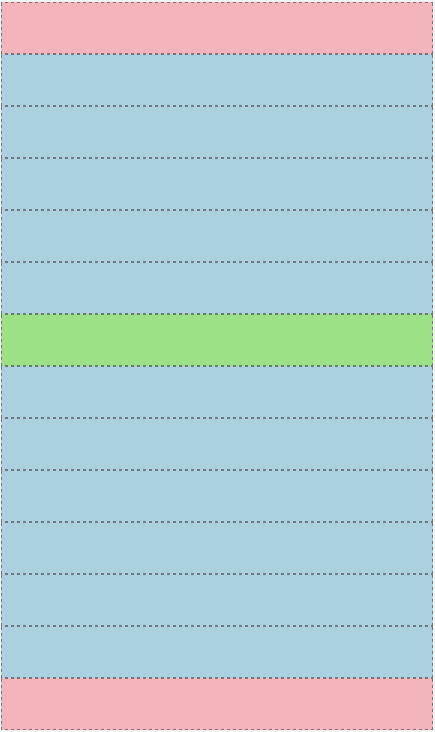
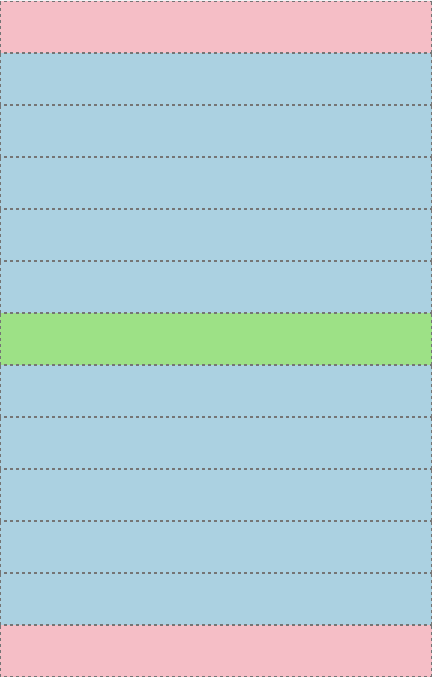
next add user movement

diff --git a/main.js b/main.js
@@ -31,64 +31,100 @@ document.addEventListener("DOMContentLoaded", function(event) {
    let botOptions = [1, 2, 3];
    let botOptionIMGS = [];
    let url = '';
-
+   let container = document.getElementById('container');
+   let width = 430;
+   // PLAYER CONTROLS
+   let u = +25;
+   let d = -25;
+   let l = -25;
+   let r = +25;
    // KEEP TRACK OF WINS/LOSSES
    let outcome = 'default';
    // CREATE PLAYER & BOTS
-   const character = document.getElementById('character');
+   const player = document.getElementById('player');
 
+   function collide() {
+      console.log('oh no!');
+      player.style.bottom = '0px';
+      player.style.left = '500px';
+      playerPosVert = 0;
+      playerPosHoriz = 500;
+      lives--;
+      console.log('lives left:', lives);
+      if (lives === 0) {
+         console.log(' out of lives!');
+         //  makeModalRestart();
+      }
+   }
+
+   function checkCollision(param1, param2) {
+      charLeft = parseInt((player.style.left).match(/[0-9]+/));
+      charRight = (parseInt((player.style.left).match(/[0-9]+/)) + player.offsetWidth);
+      charBottom = parseInt((player.style.bottom).match(/[0-9]+/));
+      charTop = (parseInt((player.style.bottom).match(/[0-9]+/)) + player.offsetHeight);;
+      let bots = document.getElementsByClassName('bot');
+      for (let x = 0; x < bots.length; x++) {
+         robotLeft = parseInt((bots[x].style.left).match(/[0-9]+/));
+         robotRight = (parseInt((bots[x].style.left).match(/[0-9]+/)) + bots[x].offsetWidth);
+         robotBottom = parseInt((bots[x].style.bottom).match(/[0-9]+/));
+         robotTop = (parseInt((bots[x].style.bottom).match(/[0-9]+/)) + bots[x].offsetHeight);
+
+         if ((((charBottom < robotTop) && (charBottom > robotBottom)) || ((charTop > robotBottom) && (charTop < robotTop)) || ((charTop === robotTop) && (charBottom === robotBottom))) && (((charLeft > robotLeft) && (charLeft < robotRight)) || ((charRight > robotLeft) && (charRight < robotRight)))) {
+            console.log('collided!');
+            collide();
+         }
+
+      }
+   }
 
 
    function createGame() {
-      // GET IMAGES
-      function setImages(arg1) {
-         var xhr = new XMLHttpRequest();
-         xhr.responseType = 'arraybuffer';
-         xhr.onload = function() {
-            var blb = new Blob([xhr.response], {
-               type: 'image/png'
-            });
-            url = window.URL.createObjectURL(blb);
-            botOptionIMGS[arg1] = `url(${url})`;
-         };
 
-         xhr.open('GET', 'http://galvanize-cors-proxy.herokuapp.com/https://robohash.org/gf');
-         xhr.send();
-      };
-      // + seed + "?set=set" + arg1
       // CREATE PLAYER
-      for (let x = 0; x < botOptions.length; x++) {
-         console.log(x);
-         setImages(x);
-      }
-      console.log(botOptionIMGS);
-      console.log(botOptionIMGS[0], '0th image');
-      character.style.backgroundImage = (botOptionIMGS[0]);
-      console.log(character.style.backgroundImage);
-      // console.log(myImage);
-      // character.style.backgroundImage = (myImage);
-
-
-
+      player.style.backgroundImage = `url(http://galvanize-cors-proxy.herokuapp.com/https://robohash.org/${seed}?set=set3)`;
       // CREATE BOTS
-      // for (let z = 0; z < botOptions.length; z++) {
-      //    setImages(bot, botOptions[z]);
-      // }
       let numRows = levels[level].length;
       for (let x = 0; x < numRows; x++) {
          let row = levels[level][x];
          let botsPerRow = row.botPicks.length;
+         let offset = parseInt((530 - (50 * botsPerRow)) / botsPerRow);
+         console.log(offset);
          for (let y = 0; y < botsPerRow; y++) {
             let bot = document.createElement('div');
+            let set = levels[level][x].botPicks[y];
             bot.className = 'bot';
+            if (x < 5) {
+               bot.style.bottom = ((x + 1) * 50) + 'px';
+            } else {
+               bot.style.bottom = ((x + 2) * 50) + 'px';
+            }
+            bot.style.backgroundImage = `url(http://galvanize-cors-proxy.herokuapp.com/https://robohash.org/${seed}?set=set${set})`;
+            container.append(bot);
+            let botOffset = (((offset) + 50) * y);
+            bot.style.left = botOffset + 'px';
+            let botPosition = botOffset;
 
+            function moveBot() {
+               botPosition = botPosition + row.velocity;
+               bot.style.left = botPosition + 'px';
+               if (Math.abs(botPosition) >= 480) {
+                  botPosition = -50;
+               }
+
+               if ((botPosition) < -50) {
+                  botPosition = 480;
+               }
+               requestAnimationFrame(moveBot);
+               checkCollision();
+            }
+            moveBot();
          }
       }
-
-
-
-      console.log(seed, 'seed at create game');
    }
+
+   //  document.onkeydown = checkKey;
+
+
 
 
    // SET UP MODAL
@@ -152,9 +188,9 @@ GET png request(s) -- seed
 
 define robots
 move robots - direction/speed
-define character
-set character controls
-move character
+define player
+set player controls
+move player
 check collision
 check win
 
@@ -169,11 +205,11 @@ win modal
 modal  <- modal(start/win/restart)
 robot vars - distance between, offset, speed
 
-// on load submit load icon, on make characters/robots, setup game (if lag)
+// on load submit load icon, on make players/robots, setup game (if lag)
 
 setup game (on http requests complete <- need #image types ahead of time)
   * do I need this in a function? just wait for load? *
-  make character
+  make player
   get level - sets robot variables
     make robots (image set, bottom offset, index, speed/direction, #monsters, distance between)
     ^ make distance between calc based on #monsters; need index?; try to call only once
@@ -187,7 +223,7 @@ define robots
     * set robot left & bottom offset
     set robot position to offset (space between * index of monster)
     append robot
-    set robot classname by index: robot1, robot2, etc (for looping through robots in collide check << probably unnecessary << just get all by class robot and apply in a loop?)
+    set robot classname by index: bot, robot2, etc (for looping through robots in collide check << probably unnecessary << just get all by class robot and apply in a loop?)
 
     declare move robot () << move out?!
       increment robot position
@@ -198,7 +234,7 @@ define robots
 
     move robot()
 
-define character (player)
+define player (player)
       make
       give id, class, background image (http GET url)
       * set position left & bottom
@@ -210,15 +246,15 @@ define character (player)
  global vars for u,d,l,r (move up to top)
 
  move player()
-  for each direction, move character position < change to object literal, run once? object: keycode, direction name, +/- #pixels to move
-  check goals for win // change to only runs on character pos = goal,  height < change to object literal
+  for each direction, move player position < change to object literal, run once? object: keycode, direction name, +/- #pixels to move
+  check goals for win // change to only runs on player pos = goal,  height < change to object literal
     ^ make this cleaner - margins between goals, clear win/loss < change 1 hop to be 1 whole box?
-      if goal, reset character position << break out into function, update goals
+      if goal, reset player position << break out into function, update goals
         if all goals, display win modal, update level
 
   collided
     alert user
-    reset character position (put a delay on this?, maybe combined with alerting user - toast?)
+    reset player position (put a delay on this?, maybe combined with alerting user - toast?)
     decrement lives
     if no more lives
       run restart modal
@@ -233,6 +269,18 @@ define character (player)
 
   GET requests currently at bottom, move up
 */
+
+//* BONUS: python firebase api from robohash template w/custom images < THURS
+// THURS
+// ts currently at bottom, move up
+//    *
+//    /
+//
+// //* BONUS: python firebase api from robohash template w/custom images < THURS
+// // THURS
+// ts currently at bottom, move up
+//    *
+//    /
 
 //* BONUS: python firebase api from robohash template w/custom images < THURS
 // THURS

diff --git a/mainOne.js b/mainOne.js
@@ -300,36 +300,10 @@ document.addEventListener("DOMContentLoaded", function(event) {
    }
 
    function checkCollision(param1, param2) {
-
-
       charLeft = parseInt((character.style.left).match(/[0-9]+/));
       charRight = (parseInt((character.style.left).match(/[0-9]+/)) + character.offsetWidth);
       charBottom = parseInt((character.style.bottom).match(/[0-9]+/));
       charTop = (parseInt((character.style.bottom).match(/[0-9]+/)) + character.offsetHeight);;
-
-
-      // if (charBottom >= 400) {
-      //    let drowning = true;
-      //    for (let p = 0; p < logs.length; p++) {
-      //
-      //       robotLeft = parseInt((logs[p].style.left).match(/[0-9]+/));
-      //       robotRight = (parseInt((logs[p].style.left).match(/[0-9]+/)) + logs[p].offsetWidth);
-      //       robotBottom = parseInt((logs[p].style.bottom).match(/[0-9]+/));
-      //       robotTop = (parseInt((logs[p].style.bottom).match(/[0-9]+/)) + logs[p].offsetHeight);
-      //
-      //       if ((((charBottom < robotTop) && (charBottom > robotBottom)) || ((charTop > robotBottom) && (charTop < robotTop)) || ((charTop === robotTop) && (charBottom === robotBottom))) && (((charLeft > robotLeft) && (charLeft < robotRight)) || ((charRight > robotLeft) && (charRight < robotRight)))) {
-      //          drowning = false;
-      //       } else if ((charBottom === robotBottom) && (charTop === robotTop) && (charLeft === robotLeft) && (charRight === robotRight)) {
-      //          drowning = false;
-      //       }
-      //    }
-      //    if (drowning) {
-      //       console.log('fell in water!');
-      //       collide();
-      //    }
-      // } else {
-
-
       for (let y = 0; y < param2; y++) {
          if (robot1) {
             let robotName = 'robot' + (y);
@@ -344,8 +318,6 @@ document.addEventListener("DOMContentLoaded", function(event) {
                collide();
             }
          }
-
-         //  }
       }
    }
 

diff --git a/levels.js b/levels.js
@@ -1,34 +1,34 @@
 const levels = [
    [{
-      "botPicks": [1, 2, 1, 2, 1],
-      "velocity": -2
+      "botPicks": [2, 2],
+      "velocity": 1.5
    }, {
-      "botPicks": [1, 2, 1, 2],
-      "velocity": -2
+      "botPicks": [1, 1, 1],
+      "velocity": -1
    }, {
-      "botPicks": [1, 2, 1, 2],
-      "velocity": -2
+      "botPicks": [2, 2],
+      "velocity": 1.5
    }, {
-      "botPicks": [1, 2, 1, 2, 1],
-      "velocity": -2
+      "botPicks": [1, 1, 1],
+      "velocity": -1
    }, {
-      "botPicks": [1, 2, 1, 2],
-      "velocity": -2
+      "botPicks": [2, 2],
+      "velocity": 1.5
    }, {
-      "botPicks": [1, 2, 1, 2, 1],
-      "velocity": -2
+      "botPicks": [1, 1, 1],
+      "velocity": -1
    }, {
-      "botPicks": [1, 2, 1, 2],
-      "velocity": -2
+      "botPicks": [2, 2],
+      "velocity": 1.5
    }, {
-      "botPicks": [1, 2, 1, 2, 1],
-      "velocity": -2
+      "botPicks": [1, 1, 1],
+      "velocity": -1
    }, {
-      "botPicks": [1, 2, 1, 2],
-      "velocity": -2
+      "botPicks": [2, 2],
+      "velocity": 1.5
    }, {
-      "botPicks": [1, 2, 1, 2, 1],
-      "velocity": -2
+      "botPicks": [1, 1, 1],
+      "velocity": -1
    }],
    [{
       "botPicks": [1, 2, 1, 2, 1],

diff --git a/sass/main.scss b/sass/main.scss
@@ -8,7 +8,7 @@ $selago: #E5EDFB;
 .container {
   width: 430px;
   margin: 0 auto;
-  height: 700px;
+  height: 650px;
   border: 1px solid black;
   position: relative;
   background-color: $selago;
@@ -41,7 +41,7 @@ $selago: #E5EDFB;
   border: 1px solid blue;
 }
 
-.character {
+.player {
   position: absolute;
   height: 50px;
   width: 50px;

diff --git a/css/main.css b/css/main.css
@@ -4,7 +4,7 @@
 .container {
   width: 430px;
   margin: 0 auto;
-  height: 700px;
+  height: 650px;
   border: 1px solid black;
   position: relative;
   background-color: #E5EDFB;
@@ -33,7 +33,7 @@
   width: 20%;
   border: 1px solid blue; }
 
-.character {
+.player {
   position: absolute;
   height: 50px;
   width: 50px;

diff --git a/index.html b/index.html
@@ -24,7 +24,7 @@
         <input id="submit" type="submit" value='start'>
       </form>
     </div>
-    <div id="character" class="character"></div>
+    <div id="player" class="player"></div>
   </div>
 </body>
 <script src="levels.js"></script>
